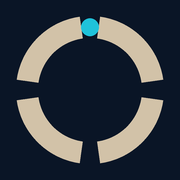
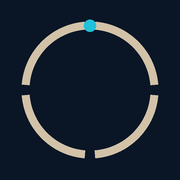
Ícono más fino
Claude-Session: https://claude.ai/code/session_01Y3s7W5s1pEAS9fTvEbWoem

Changed region(s): [[0.0833, 0.0833, 0.9167, 0.4722], [0.0833, 0.5278, 0.9167, 0.9167]]

diff --git a/sw.js b/sw.js
@@ -1,5 +1,5 @@
 // Trezco Campañas · service worker: la app abre sin red con la última versión vista; los datos se refrescan cuando hay conexión.
-const V='trezco-v3';
+const V='trezco-v4';
 const SHELL=['./','./index.html','./manifest.webmanifest','./icons/icon-192.png','./icons/icon-512.png'];
 self.addEventListener('install',e=>{e.waitUntil(caches.open(V).then(c=>c.addAll(SHELL)).then(()=>self.skipWaiting()))});
 self.addEventListener('activate',e=>{e.waitUntil(caches.keys().then(ks=>Promise.all(ks.filter(k=>k!==V).map(k=>caches.delete(k)))).then(()=>self.clients.claim()))});
